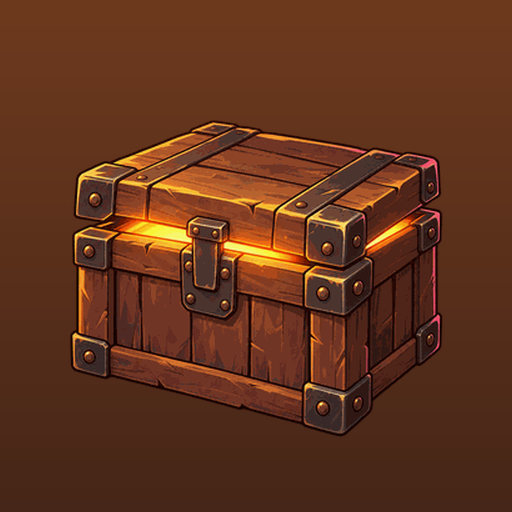
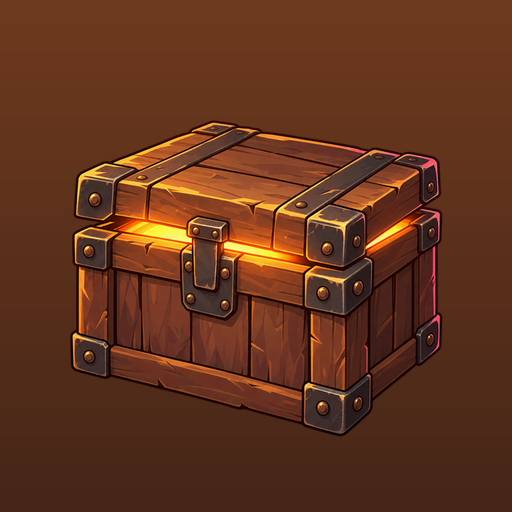
fix: 图标用原图生成，不再发糊

diff --git a/tools/build_minigame_docs.py b/tools/build_minigame_docs.py
@@ -172,7 +172,7 @@ def build_icon():
     for y in range(size):   # 暖色渐变底
         t = y / size
         d.line([(0, y), (size, y)], fill=(int(70 + 40 * (1 - t)), int(38 + 20 * (1 - t)), int(24 + 6 * (1 - t))))
-    chest = Image.open(ART / "gift_big.png").convert("RGBA")
+    chest = Image.open(ROOT / "src" / "assets" / "art" / "gift_big.png").convert("RGBA")   # 用原图，压缩过的太糊
     k = 400 / max(chest.size)
     chest = chest.resize((round(chest.width * k), round(chest.height * k)), Image.LANCZOS)
     im.paste(chest, ((size - chest.width) // 2, (size - chest.height) // 2 + 10), chest)
